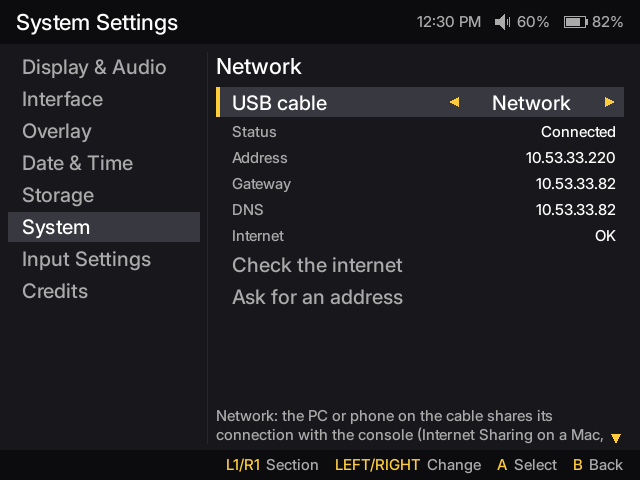
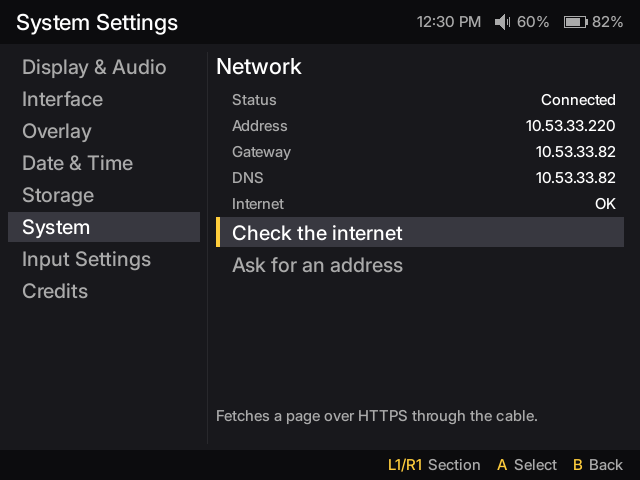
System Settings: USB cable moves to System, and a mode switch leaves the launcher's group
The owner wants the cable's mode next to the other device settings, like a
phone's USB preferences, and the Network page to open straight on its status.
USB cable (Files (MTP) / Network) is now a row of System; Network shows the
status, and with the cable on Files its hint says where to change it.

usb-mode.sh now moves itself to the root cgroup before it rebuilds the gadget.
Run from Puppy, it put umtprd (and udhcpc) in appd's launcher group, which
appd empties when a game starts or the launcher restarts: umtprd died, the
gadget unbound and the PC lost the drive and the serial shell until a reboot.
It happened on the owner's console on 30/10 (an appd restart after a switch
from Network to Files: the UDC went from configured to none in that second).

Changed region(s): [[0.3125, 0.1562, 1.0, 0.6562], [0.3438, 0.8438, 0.9688, 1.0]]

diff --git a/rootfs/package/puppy/src/settings_pages.cpp b/rootfs/package/puppy/src/settings_pages.cpp
@@ -114,6 +114,8 @@ std::string SettingsScreen::pageHint(Page p) const {
     switch (p) {
         case Page::Tabs: return tr("Tabs switched off are hidden; their games still show in All Games and My List.");
         case Page::System: return tr(powerProfiles()[profile].hint);
+        case Page::Network:
+            return net.networkMode ? "" : tr("Set the USB cable to Network, on the System page, to use it.");
         case Page::ScraperRun: return tr("Puppy must stay open: starting a game stops the scraper. It goes on from there next time.");
         case Page::Resize:
             if (resize.pending)
@@ -476,6 +478,15 @@ std::vector<Row> SettingsScreen::systemPage() {
         profile = i;
         setPowerProfile(i);
     }));
+    Row mode = Row::choice("USB cable", {"Files (MTP)", "Network"}, net.networkMode ? 1 : 0, [this](int i) {
+        setUsbMode(i == 1);
+        net = NetworkStatus::read();
+        netRead = SDL_GetTicks();
+    });
+    mode.hint = "Network: the PC or phone on the cable shares its connection with the console (Internet Sharing on a Mac, "
+                "the adapter's Sharing tab on Windows, Ethernet tethering on a phone). Files: HOME shows up on it as a drive. "
+                "Not both at once.";
+    rows.push_back(mode);
     rows.push_back(Row::link("System Info", [this] {
         info = SystemInfo::read();
         home = homeUsage();
@@ -550,19 +561,9 @@ std::vector<Row> SettingsScreen::infoPage() {
     return rows;
 }
 
-// The USB cable as a network: the PC or phone on it shares its internet with the console
+// The USB cable as a network (System > USB cable): the PC or phone on it shares its internet with the console
 std::vector<Row> SettingsScreen::networkPage() {
     std::vector<Row> rows;
-    Row mode = Row::choice("USB cable", {"Files (MTP)", "Network"}, net.networkMode ? 1 : 0, [this](int i) {
-        setUsbMode(i == 1);
-        net = NetworkStatus::read();
-        netRead = SDL_GetTicks();
-    });
-    mode.hint = "Network: the PC or phone on the cable shares its connection with the console (Internet Sharing on a Mac, "
-                "the adapter's Sharing tab on Windows, Ethernet tethering on a phone). Files: HOME shows up on it as a drive. "
-                "Not both at once.";
-    rows.push_back(mode);
-
     const char* status = "Off (the cable is for files)";
     if (net.networkMode) {
         if (!net.hostUp) status = "No PC or phone on the cable";

diff --git a/README.md b/README.md
@@ -225,8 +225,9 @@ System Settings
 │   └── Empty trash
 ├── System
 │   ├── Power mode: Battery saver / Balanced / Performance
+│   ├── USB cable: Files (MTP) / Network
 │   ├── System Info
-│   ├── Network ─ USB cable: Files (MTP) / Network; status, address, gateway, DNS, Check the internet, Ask for an address
+│   ├── Network ─ status, address, gateway, DNS, Check the internet, Ask for an address
 │   ├── Scraper ─ ScreenScraper account; Games, Picture, Videos, Region, Systems; Start / Stop and the progress
 │   └── Restore default settings
 ├── Input Settings
@@ -247,7 +248,8 @@ System Settings
 - **Resize Home**: expands HOME to fill the rest of the card, at the next boot (it asks first, then restarts). HOME is backed up to RAM while it's resized, so do it right after flashing, before copying your games.
 - **Empty trash**: deletes for good the games moved to the trash in the launcher.
 - **Power mode**: Balanced (the default) speeds the CPU and GPU up only when a game needs it; Battery saver caps the CPU at 816 MHz and the GPU at 240 MHz, for a longer battery life (heavy PS1 games may slow down); Performance keeps both at full speed. The choice is kept across reboots.
-- **Network**: with the USB cable set to Network, the console shows up on the PC or phone as a network adapter named goodluckOS instead of the MTP drive (the A33's USB controller can't do both at once), and the PC or phone can share its connection with it: Internet Sharing on a Mac, the adapter's Sharing tab on Windows, "Shared to other computers" on Linux, or Ethernet tethering on an Android phone (the console on the phone's OTG adapter with an A-to-C cable; the phone needs Android 11 or newer). The page shows the address the console got, the gateway and the DNS, Check the internet fetches a page over HTTPS, and Ask for an address asks right away instead of within a minute. The choice is kept across reboots; a Mac only sets a new adapter up while its screen is unlocked. Nothing uses the internet yet: it's the ground for a scraper and for setting the clock.
+- **USB cable**: what the PC or phone on the data port gets. Files (MTP, the default) shows HOME as a drive; Network makes the console a network adapter named goodluckOS instead (the A33's USB controller can't do both at once), and the PC or phone can share its connection with it: Internet Sharing on a Mac, the adapter's Sharing tab on Windows, "Shared to other computers" on Linux, or Ethernet tethering on an Android phone (the console on the phone's OTG adapter with an A-to-C cable; the phone needs Android 11 or newer). The choice is kept across reboots; a Mac only sets a new adapter up while its screen is unlocked.
+- **Network**: the USB network, with USB cable set to Network: the address the console got, the gateway and the DNS; Check the internet fetches a page over HTTPS, and Ask for an address asks right away instead of within a minute. The scraper uses it.
 - **Scraper**: names, descriptions, release dates, genres, players, pictures and, if you want them, gameplay videos for your games, from [ScreenScraper](https://www.screenscraper.fr), fetched by the console itself over the USB network (see Network). It needs a free ScreenScraper account, typed in on the page (Aa on the keyboard also gives the symbols over the numbers). **Games**: Missing only fills in what each game lacks, All replaces it. **Picture**: Mix (the screenshot, the box and the logo in one picture, the default), Box, 3D box, Screenshot, Title screen, Logo or None. **Region**: whose names, covers and dates come first; Auto follows the file name's tags, e.g. (USA). **Systems**: which ROM folders to scrape. Start shows the progress, and Stop ends the run. Puppy must stay open while it runs: a game started meanwhile stops the scraper, which goes on from there the next time. Games are recognised by their CRC (in a zip, the file inside), name and size. Descriptions and genres also come in the interface's language when ScreenScraper has them (`gamelist.<language>.xml` next to `gamelist.xml`). Pictures go to `media/images` and videos to `media/videos` in each ROM folder, pictures at most 400x300. Every answer is kept in `HOME/.cache/gl-scrape`, so another run, or another choice of picture, doesn't spend the day's ScreenScraper requests again. The account is kept in `HOME/.config/gl-scrape/settings`. From the serial shell: `gl-scrape --help`.
 - **Restore default settings**: puts Overlay, Date & Time, the launcher's view, tabs, font and accent color, and the power mode back to the defaults in `/usr/share/goodluck/defaults`, keeping the language, the confirm button, the time zone and the clock.
 - **Confirm button**: A (right, the default, as on a Nintendo pad) or B (bottom, as on an Xbox pad) launches and selects, and the other one goes back. The launcher, its hints and the shortcut list change right away. Every app that reads the pad through SDL (the video player, ports, Luanti) gets the chosen button as its south one, the button these apps confirm and jump with, from the next one you open. RetroArch reads the pad on its own, so with B the Game Boy (Color), GBA, NES and SNES cores get A and B swapped in their core remaps (`~/.config/retroarch/config/remaps/<core>/<core>.rmp`), and their games confirm with B too. A remap of your own for A or B is left alone, and going back to A takes the swap out. The other systems keep the buttons as printed (Western PlayStation games already confirm with the bottom one), and RetroArch's menu has its own swap option.
